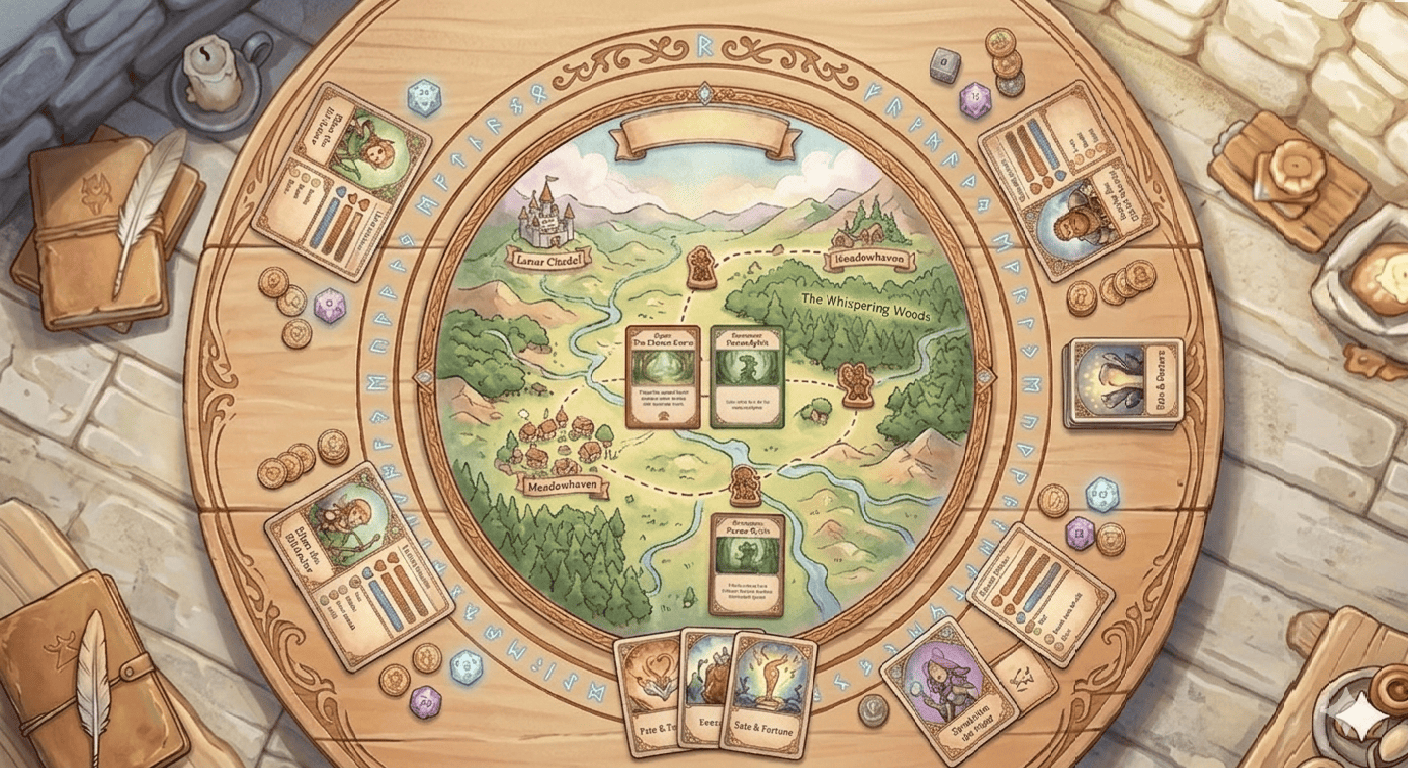
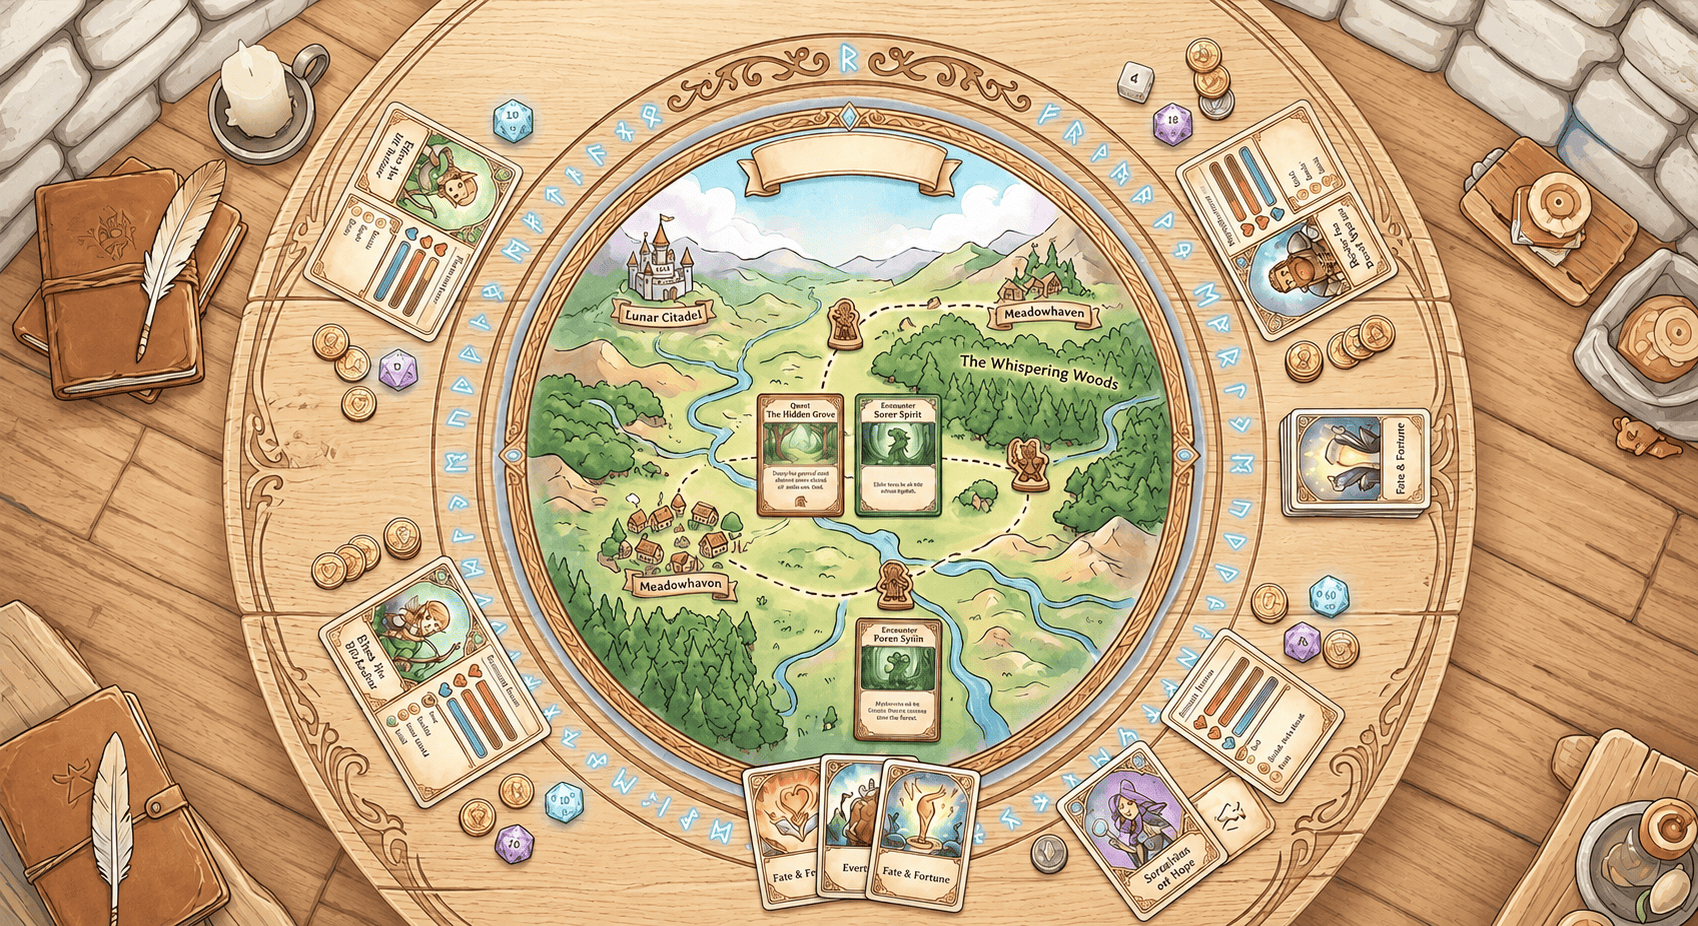
Upgrade firebase rules

diff --git a/src/pages/LoginPage.tsx b/src/pages/LoginPage.tsx
@@ -20,6 +20,11 @@ import { getCountrySelectOptions, guessCountryFromLocale, normalizeCountryCode }
 import { CountrySelect } from '@/components/CountrySelect';
 import '@/styles/login.css';
 
+const MAX_EMAIL_LENGTH = 254;
+const MAX_DISPLAY_NAME_LENGTH = 32;
+const MIN_PASSWORD_LENGTH_REGISTER = 10;
+const MAX_PASSWORD_LENGTH = 128;
+
 export function LoginPage({
     theme,
     onThemeChange
@@ -58,11 +63,31 @@ export function LoginPage({
         if (authInProgress) return;
         setError('');
         const normalizedEmail = email.trim().toLowerCase();
+        if (!normalizedEmail) {
+            setError('Email is required.');
+            return;
+        }
+        if (normalizedEmail.length > MAX_EMAIL_LENGTH) {
+            setError(`Email is too long (max ${MAX_EMAIL_LENGTH} characters).`);
+            return;
+        }
+        if (password.length > MAX_PASSWORD_LENGTH) {
+            setError(`Password is too long (max ${MAX_PASSWORD_LENGTH} characters).`);
+            return;
+        }
         try {
             if (isRegister) {
                 const cleanDisplayName = sanitizeDisplayName(displayName);
                 if (!cleanDisplayName) {
                     setError('Display name is required.');
+                    return;
+                }
+                if (cleanDisplayName.length > MAX_DISPLAY_NAME_LENGTH) {
+                    setError(`Display name is too long (max ${MAX_DISPLAY_NAME_LENGTH} characters).`);
+                    return;
+                }
+                if (password.length < MIN_PASSWORD_LENGTH_REGISTER) {
+                    setError(`Password must have at least ${MIN_PASSWORD_LENGTH_REGISTER} characters.`);
                     return;
                 }
                 const displayNameKey = normalizeDisplayName(cleanDisplayName);
@@ -198,6 +223,7 @@ export function LoginPage({
                                 placeholder="Display name"
                                 value={displayName}
                                 onChange={(e) => setDisplayName(e.target.value)}
+                                maxLength={MAX_DISPLAY_NAME_LENGTH}
                                 required
                             />
                             <label className="block text-xs text-[var(--app-text-muted)]">
@@ -212,9 +238,13 @@ export function LoginPage({
                     )}
                     <input
                         className="input"
+                        type="email"
                         placeholder="Email"
                         value={email}
                         onChange={(e) => setEmail(e.target.value)}
+                        maxLength={MAX_EMAIL_LENGTH}
+                        autoComplete="email"
+                        required
                     />
                     <input
                         className="input"
@@ -222,6 +252,10 @@ export function LoginPage({
                         placeholder="Password"
                         value={password}
                         onChange={(e) => setPassword(e.target.value)}
+                        maxLength={MAX_PASSWORD_LENGTH}
+                        minLength={isRegister ? MIN_PASSWORD_LENGTH_REGISTER : 1}
+                        autoComplete={isRegister ? 'new-password' : 'current-password'}
+                        required
                     />
                     <button className="btn-primary w-full" type="submit" disabled={authInProgress}>
                         {authInProgress ? 'Loading...' : isRegister ? 'Create account' : 'Login'}

diff --git a/src/pages/DashboardPage.tsx b/src/pages/DashboardPage.tsx
@@ -42,6 +42,8 @@ import { SkeletonDot, SkeletonInput, SkeletonTag, SkeletonText } from '@/compone
 import type { AppTheme } from '@/hooks/useAppTheme';
 import '@/styles/dashboard.css';
 
+const MAX_DISPLAY_NAME_LENGTH = 32;
+
 type LobbySkeletonProps = {
     rows?: number;
     withTag?: boolean;
@@ -972,6 +974,10 @@ export function DashboardPage({
         }
         if (displayName.length < 2) {
             setProfileError('Display name must have at least 2 characters.');
+            return;
+        }
+        if (displayName.length > MAX_DISPLAY_NAME_LENGTH) {
+            setProfileError(`Display name is too long (max ${MAX_DISPLAY_NAME_LENGTH} characters).`);
             return;
         }
         const countryNorm = normalizeCountryCode(profileCountryCode);

diff --git a/FIREBASE_SECURITY.md b/FIREBASE_SECURITY.md
@@ -32,6 +32,7 @@ firebase deploy --only firestore:rules,database,storage
 5. Restrict Authentication authorized domains to production + required localhost entries.
 6. Enable Firebase Audit Logs in Google Cloud and review them regularly.
 7. Rotate any server-side secrets and move them to Secret Manager (if backend exists).
+8. Configure Authentication password policy (min length, complexity, breach checks) in Firebase Auth settings.
 
 ## Important Note
 
